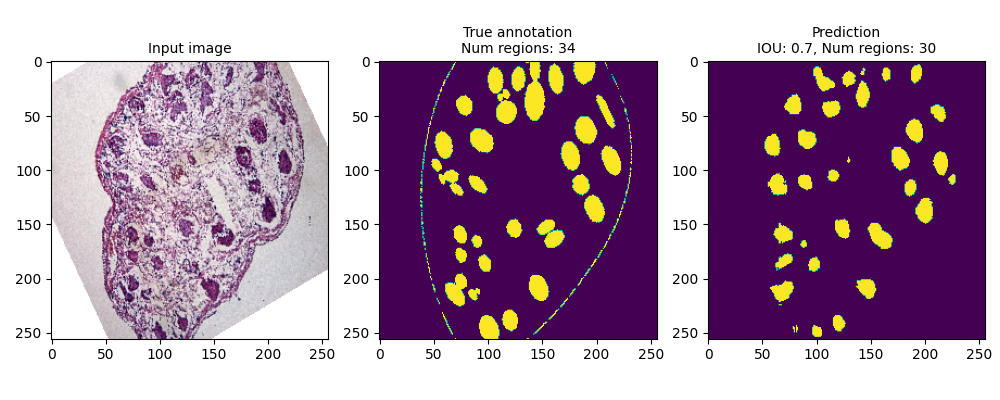
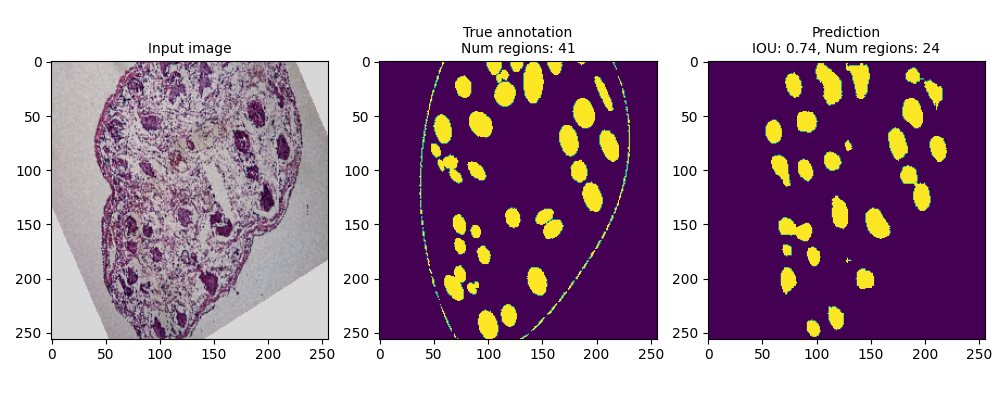
add overlay plot

diff --git a/src/augmentation.py b/src/augmentation.py
@@ -4,11 +4,11 @@ import cv2
 from PIL import ImageOps, Image
 from keras_preprocessing.image import ImageDataGenerator
 
-from src.config import seed, batch_size, img_size, initialise_run
-from src.data_utils import annotation_preprocessor
+from config import seed, batch_size, img_size, initialise_run
+from data_utils import annotation_preprocessor
 
 
-def get_image_annotation_generators(subset='validation', image_directory='data/train/images', annotation_directory='data/train/annotations_old', validation_split=0.2):
+def get_image_annotation_generators(subset='validation', image_directory='data/train/images', annotation_directory='data/train/annotations', validation_split=0.2):
     data_gen_arcs = dict(
         rotation_range=40,
         width_shift_range=0.3,
@@ -68,8 +68,8 @@ if __name__ == '__main__':
     train_x, train_y = get_image_annotation_generators(subset='training', image_directory='data/train/images', annotation_directory='data/train/annotations', validation_split=0)
     test_x, test_y = get_image_annotation_generators(subset='training', image_directory='data/train/images', annotation_directory='data/train/annotations', validation_split=0)
 
-    create_augmented_dataset(train_x, train_y, 'data/vagus_dataset_5/train', n=10)
-    create_augmented_dataset(test_x, test_y, 'data/vagus_dataset_5/test', n=10)
+    create_augmented_dataset(train_x, train_y, 'data/vagus_dataset_5/train', n=300)
+    create_augmented_dataset(test_x, test_y, 'data/vagus_dataset_5/test', n=20)
 
 """
 

diff --git a/src/eval.py b/src/eval.py
@@ -1,8 +1,8 @@
 import numpy as np
 from tensorflow import keras
 
-from src.config import num_classes, batch_size
-from src.visualisation import show_original_image, show_original_annotation, show_predicted_annotation, show_combined_result
+from config import num_classes, batch_size
+from visualisation import show_original_image, show_original_annotation, show_predicted_annotation, show_combined_result, show_overlay_result
 
 
 def get_model_prediction(trained_model, input_image):
@@ -24,7 +24,8 @@ def model_iou(trained_model, test_img_generator, test_anno_generator, show_image
 
     if show_images:
         for i in range(batch_size):
-            show_combined_result(model_input=x, y_true=y_true, y_pred=y_pred, i=i, iou_score=iou_score, save_file='results/combined1.png')
+            # show_combined_result(model_input=x, y_true=y_true, y_pred=y_pred, i=i, iou_score=iou_score, save_file='results/combined1.png')
+            show_overlay_result(model_input=x, y_true=y_true, y_pred=y_pred, i=i, iou_score=iou_score, save_file='results/overlay1.png')
             # show_original_image(x, i=i)
             # show_original_annotation(y_true, i=i)
             # show_predicted_annotation(y_pred, i=i)

diff --git a/src/run.py b/src/run.py
@@ -7,9 +7,9 @@ from config import img_size, num_classes, batch_size, epochs, seed, steps_per_ep
 from data_loader import VagusDataLoader
 from data_utils import input_target_path_pairs
 from model import get_model
-from src.augmentation import get_image_annotation_generators
-from src.eval import model_iou
-from src.visualisation import visualise_one_prediction
+from augmentation import get_image_annotation_generators
+from eval import model_iou
+from visualisation import visualise_one_prediction
 
 
 def train(train_data, val_data, save_location):
@@ -92,6 +92,6 @@ def output_predictions(trained_model=None, trained_model_checkpoint=None):
 if __name__ == '__main__':
     initialise_run()
     model_save_file = 'model_checkpoints/model_checkpoint6.h5'
-    # m = run_train_without_augmentation(dataset_folder='data/vagus_dataset_4', model_save_file=model_save_file)
+    # m = run_train_without_augmentation(dataset_folder='data/vagus_dataset_5/train', model_save_file=model_save_file)
     output_predictions(trained_model_checkpoint=model_save_file)
     print('Done')

diff --git a/src/visualisation.py b/src/visualisation.py
@@ -6,7 +6,7 @@ import numpy as np
 from PIL import ImageOps, Image
 from tensorflow import keras
 
-from src.post_processing import identify_fasicle_regions
+from post_processing import identify_fasicle_regions
 
 
 def display_annotation_high_contrast(fpath):
@@ -81,6 +81,21 @@ def show_combined_result(model_input, y_true, y_pred, i=0, iou_score=None, save_
 
     plt.show()
 
+def show_overlay_result(model_input, y_true, y_pred, i=0, iou_score=None, save_file=None):
+    fig, (ax1, ax2) = plt.subplots(1, 2, figsize=(10, 4))
+
+    ax1.imshow(model_input[i, :, :, :]/255)
+    ax1.set_title(f'Input image', fontsize=10)
+
+    ax2.imshow(y_true[i, :, :, 0], cmap='gray', interpolation='none')
+    ax2.imshow(y_pred[i, :, :], cmap='viridis', alpha=0.5, interpolation='none')
+
+    ax2.set_title(f'True annotation: White      Prediction: Yellow\nIOU: {str(iou_score)}', fontsize=10)
+    
+    if save_file:
+        plt.savefig(save_file)
+
+    plt.show()
 
 def visualise_one_prediction(model, input_image):
     print('Input image shape: ', input_image.shape)

diff --git a/src/config.py b/src/config.py
@@ -19,5 +19,5 @@ def initialise_run():
     """ Machine specific run initialisation """
     # devices = tf.config.experimental.list_physical_devices('GPU')
     # tf.config.experimental.set_memory_growth(devices[0], True)
-    os.chdir('/home/albion/code/EPFL/ml/nerve-segmentation')
-    # os.chdir('D:/EPFL/ML/projects/nerve-segmentation/')
+    # os.chdir('/home/albion/code/EPFL/ml/nerve-segmentation')
+    os.chdir('D:/EPFL/ML/projects/nerve-segmentation/')

diff --git a/src/data_loader.py b/src/data_loader.py
@@ -3,7 +3,7 @@ from tensorflow import keras
 import numpy as np
 from tensorflow.keras.preprocessing.image import load_img
 
-from src.config import debug
+from config import debug
 
 
 class VagusDataLoader(keras.utils.Sequence):
